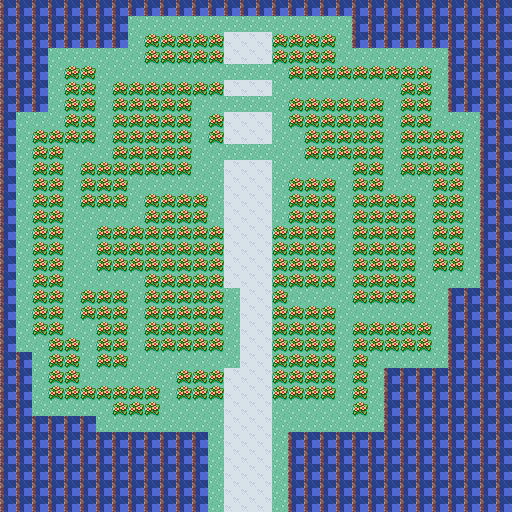
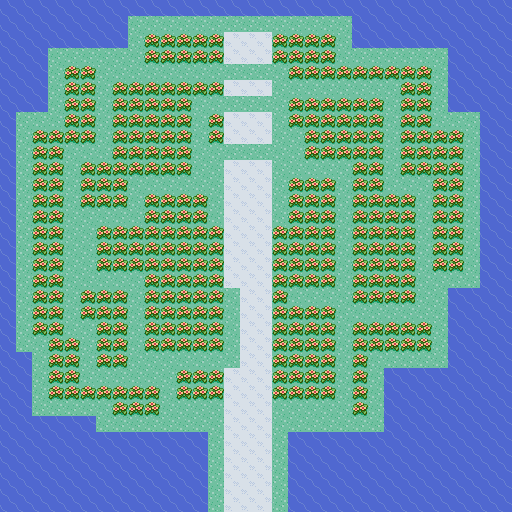
Use existing ocean art with identical water semantics across connected north packets

Changed region(s): [[0.0, 0.0, 1.0, 1.0]]

diff --git a/Pokemon Game/Averon_Codex_Handoff/design/sinnoh/seabreak-flower/build.py b/Pokemon Game/Averon_Codex_Handoff/design/sinnoh/seabreak-flower/build.py
@@ -39,7 +39,7 @@ def construct(geometry):
             if p['permission']==0x15:
                 # Keep exterior sides and unbuilt southern join safely closed.
                 edge=(x in (0,w-1)) or (y==0 and 'up' not in existing.OPEN_BOUNDARIES[name]) or (y==height-1 and 'down' not in existing.OPEN_BOUNDARIES[name])
-                cells[y*w+x]=0x1000|44|(0xc00 if edge else 0)
+                cells[y*w+x]=0x1000|368|(0xc00 if edge else 0)
             elif p['permission']==0:
                 v=cells[y*w+x]
                 if not v&0xc00:
@@ -75,10 +75,10 @@ def build(engine,out):
     prefixes=['data/tilesets/primary/general/','data/tilesets/secondary/rustboro/']
     primary=read(engine/prefixes[0]/'metatiles.bin');pa=read(engine/prefixes[0]/'metatile_attributes.bin');source_attrs=[bytearray(pa),bytearray(1024)]
     for mid in (1,4,265):struct.pack_into('<H',source_attrs[0],2*mid,0x1000)
-    if existing.packer.attribute(pa,44)!=0x1015:raise ValueError('native ocean semantics differ')
+    if existing.packer.attribute(pa,368)!=0x1015:raise ValueError('native ocean semantics differ')
     sec=sa=b'';packets={}
     for name,(raw,h) in result.items():
-        border=struct.pack('<4H',*[0x1c00|44]*4);desired=[existing.packer.words(primary,v&1023) for (v,) in struct.iter_unpack('<H',raw+border)]
+        border=struct.pack('<4H',*[0x1c00|368]*4);desired=[existing.packer.words(primary,v&1023) for (v,) in struct.iter_unpack('<H',raw+border)]
         data,sec,sa=existing.packer.pack_art(raw+border,desired,source_attrs,primary,pa,sec,sa)
         packets[name]=(data[:len(raw)],data[len(raw):],h)
     images=[existing.dual.indexed(read(engine/p/'tiles.png')) for p in prefixes];previews={};attrs={}

diff --git a/Pokemon Game/Averon_Codex_Handoff/design/sinnoh/victory-road-side-rooms/build.py b/Pokemon Game/Averon_Codex_Handoff/design/sinnoh/victory-road-side-rooms/build.py
@@ -23,7 +23,7 @@ def construct(geometry):
         for p in geometry[n]['surfaces']:
             x,y=p['tile']
             if p['permission']==0x15:
-                cells[y*w+x]=0x1000|44
+                cells[y*w+x]=0x1000|368
         h.update(id='MAP_SINNOH_VICTORY_SIDE_'+n.upper(),name='SinnohVictorySide'+n,layout='LAYOUT_SINNOH_VICTORY_SIDE_'+n.upper(),map_type='MAP_TYPE_UNDERGROUND',music='MUS_GRANITE_CAVE')
         for i,e in enumerate(pins['technical_portals'][n]['warps']):
             if n=='Room3' and i==1:continue # Route224 outside this bounded group
